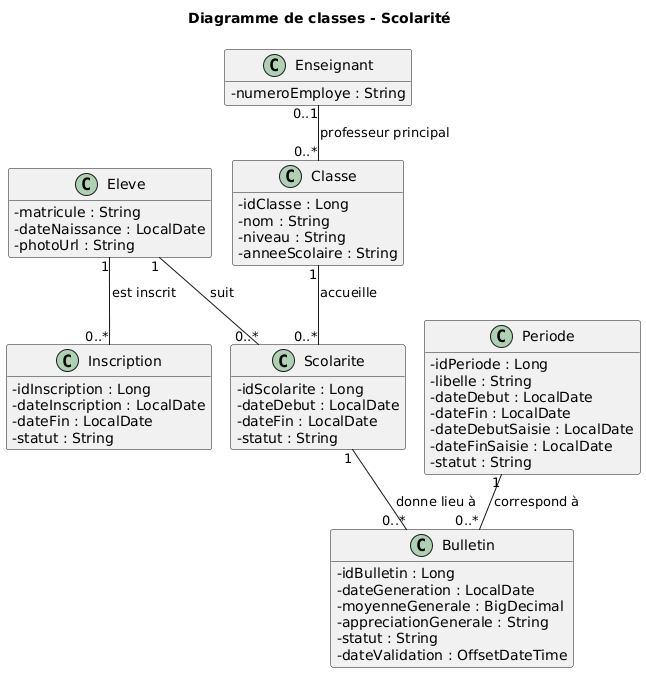
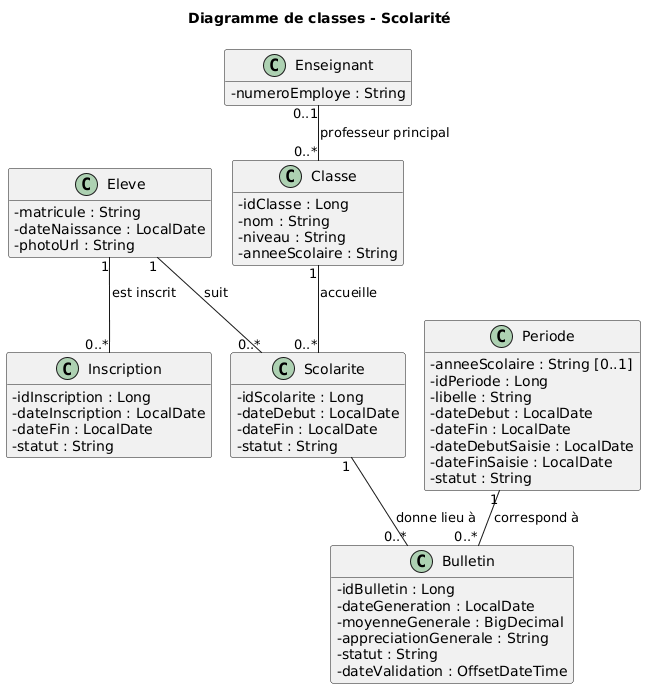
docs(uml): regenerer les vues de soutenance et consigner les preuves

diff --git a/docs/jury/CHECKLIST_LIVRABLES.md b/docs/jury/CHECKLIST_LIVRABLES.md
@@ -9,8 +9,8 @@ le dépôt ; conformité à un sujet officiel non certifiée. Chemins depuis la 
 | MLD | docs/merise/MLD.png | audit modèles | Partiellement conforme | Identifier et renommer FK responsabilité |
 | MPD | docs/merise/mpd-courant-v3.sql | migrations officielles | Conforme documentaire | Ne pas exécuter sur base existante |
 | Cas d'utilisation | docs/uml/cas-utilisation.puml | source | À vérifier manuellement | Comparer au scénario oral |
-| Classes UML | docs/uml/diagramme-classes-*.puml | MapsId/PONDERER/année | Partiellement conforme | Régénérer PNG |
-| Séquence | docs/uml/sequence-ajouter-note.puml | NoteRequest, HTTP 400 | Partiellement conforme | Régénérer PNG |
+| Classes UML | docs/uml/diagramme-classes-*.puml | MapsId/PONDERER/année | Partiellement conforme | PNG complet à régénérer ; vues découpées actualisées |
+| Séquence | docs/uml/sequence-ajouter-note.puml | NoteRequest, HTTP 400 | Partiellement conforme | PNG complet à régénérer ; vues découpées actualisées |
 | JWT/comptes | JwtConfig, ActiveAccountJwtValidator | tests sécurité Java | Conforme automatisé | Durcissement production distinct |
 | Rôles/ressources | SecurityConfig, SecurityExpressions | AuthorizationHttpTest, roles-access.spec.js | Conforme automatisé | Répétition orale |
 | CRUD élèves | EleveController/Service, React | tests Java/E2E | Conforme automatisé | Répéter manuellement |

diff --git a/docs/jury/MERISE_UML_EXPLICATIONS.md b/docs/jury/MERISE_UML_EXPLICATIONS.md
@@ -12,7 +12,7 @@ acteurs, classes applicatives et séquences d'appels.
 | MPD historique | docs/merise/mpd-postgresql.sql | V1 conservée |
 | MPD courant | docs/merise/mpd-courant-v3.sql | V1/V2/V3 documentaires |
 | Cas d'utilisation | docs/uml/cas-utilisation.puml | Source disponible |
-| Classes | docs/uml/diagramme-classes-*.puml | Sources réconciliées, PNG historiques |
+| Classes | docs/uml/diagramme-classes-*.puml | Sources réconciliées ; six PNG régénérés, complet historique |
 | Séquence note | docs/uml/sequence-ajouter-note.puml | DTO et HTTP corrigés |
 
 PERSONNE porte les coordonnées communes. ELEVE, ENSEIGNANT et RESPONSABLE
@@ -43,5 +43,4 @@ des dates et de l'année scolaire : décision différée au lot 3B.
 
 Les entités BULLETIN/LIGNE_BULLETIN existent dans le schéma, mais le parcours
 courant génère un calcul et un PDF à la demande. Ne pas prétendre disposer
-d'un archivage validé. Régénérer les PNG avec PlantUML avant de les présenter
-comme actuels ; aucun nouveau rendu n'est revendiqué dans ce sprint.
+d'un archivage validé. Six PNG sont régénérés avec PlantUML 1.2025.10/Smetana. Le diagramme complet seul reste historique : erreur interne du moteur, ancien PNG préservé. Utiliser les vues découpées actualisées pour l’oral.

diff --git a/docs/conception-audit.md b/docs/conception-audit.md
@@ -65,8 +65,7 @@ demande ; aucun processus de validation ou d'archivage n'est modélisé.
 
 Les sources PlantUML décrivent désormais les profils associés par MapsId,
 PONDERER et Periode.anneeScolaire facultative. La séquence utilise NoteRequest
-et HTTP 400 pour les violations du barème/classe. Les PNG restent historiques,
-non régénérés : ne pas les présenter comme actuels. Aucun moteur PlantUML local trouvé.
+et HTTP 400 pour les violations du barème/classe. Six PNG ont ensuite été régénérés avec PlantUML 1.2025.10/Smetana. Le diagramme complet reste historique : le moteur a échoué et son ancien export a été préservé.
 Le MPD V1 est conservé ; mpd-courant-v3.sql rassemble les migrations pour lecture.
 
 Looping, à effectuer sur une copie du .loo : dans RESPONSABILITE_LEGALE,

diff --git a/docs/jury/TESTS_ET_PREUVES.md b/docs/jury/TESTS_ET_PREUVES.md
@@ -50,3 +50,10 @@ Après npm audit fix sans --force : zéro vulnérabilité signalée par le regis
 Le package.json reste inchangé ; le lock met notamment ESLint/config-array et
 minimatch à jour dans les plages compatibles. Lint, 27 tests React et build
 ont été relancés avec succès sur cet arbre de dépendances.
+
+La relance finale Playwright après correction npm passe également : 16/16.
+PlantUML 1.2025.10 récupéré depuis Maven Central : contrôle syntaxique des sept
+sources réussi ; six PNG régénérés en mode headless/Smetana. Le rendu du
+diagramme complet a produit une erreur interne du moteur : son export
+historique a été rétabli, aucune image d'erreur n'est publiée.
+Les vues découpées sont celles à utiliser pour la présentation.

diff --git a/docs/jury/LIMITES_ET_EVOLUTIONS.md b/docs/jury/LIMITES_ET_EVOLUTIONS.md
@@ -5,7 +5,7 @@
 - Énoncé PDF non trouvé dans le dépôt : exigences évaluées à partir des documents
   disponibles et de la mission, pas d'un sujet officiel consulté.
 - Répéter manuellement toute la démonstration, le responsive et les contrastes.
-- Corriger les exports Looping et régénérer les UML ; les PNG actuels sont historiques.
+- Corriger les exports Looping et régénérer le seul UML complet resté historique ; six autres PNG ont été régénérés.
 - Contrôler les dépendances en ligne et la CI distante quand le réseau fonctionne.
 - PostgreSQL réel reste V2 : ce sprint n'autorise ni sa migration ni son backend.
 

diff --git a/docs/jury/REPRISE.md b/docs/jury/REPRISE.md
@@ -31,7 +31,7 @@ npm audit --audit-level=high. Les commandes réseau requièrent un accès dispon
 ## À terminer manuellement
 
 1. Obtenir l'énoncé officiel et compléter la matrice si des exigences manquent.
-2. Corriger Looping sur copie et régénérer les PNG UML.
+2. Corriger Looping sur copie et régénérer le PNG UML complet (échec Smetana) ; six autres PNG actualisés.
 3. Répéter toutes les manipulations de DEMONSTRATION.md, avec clavier/mobile.
 4. Préparer captures et PDF fictifs de secours, sans données réelles.
 5. Relire le dossier avec le candidat : appropriation des 35 réponses.
